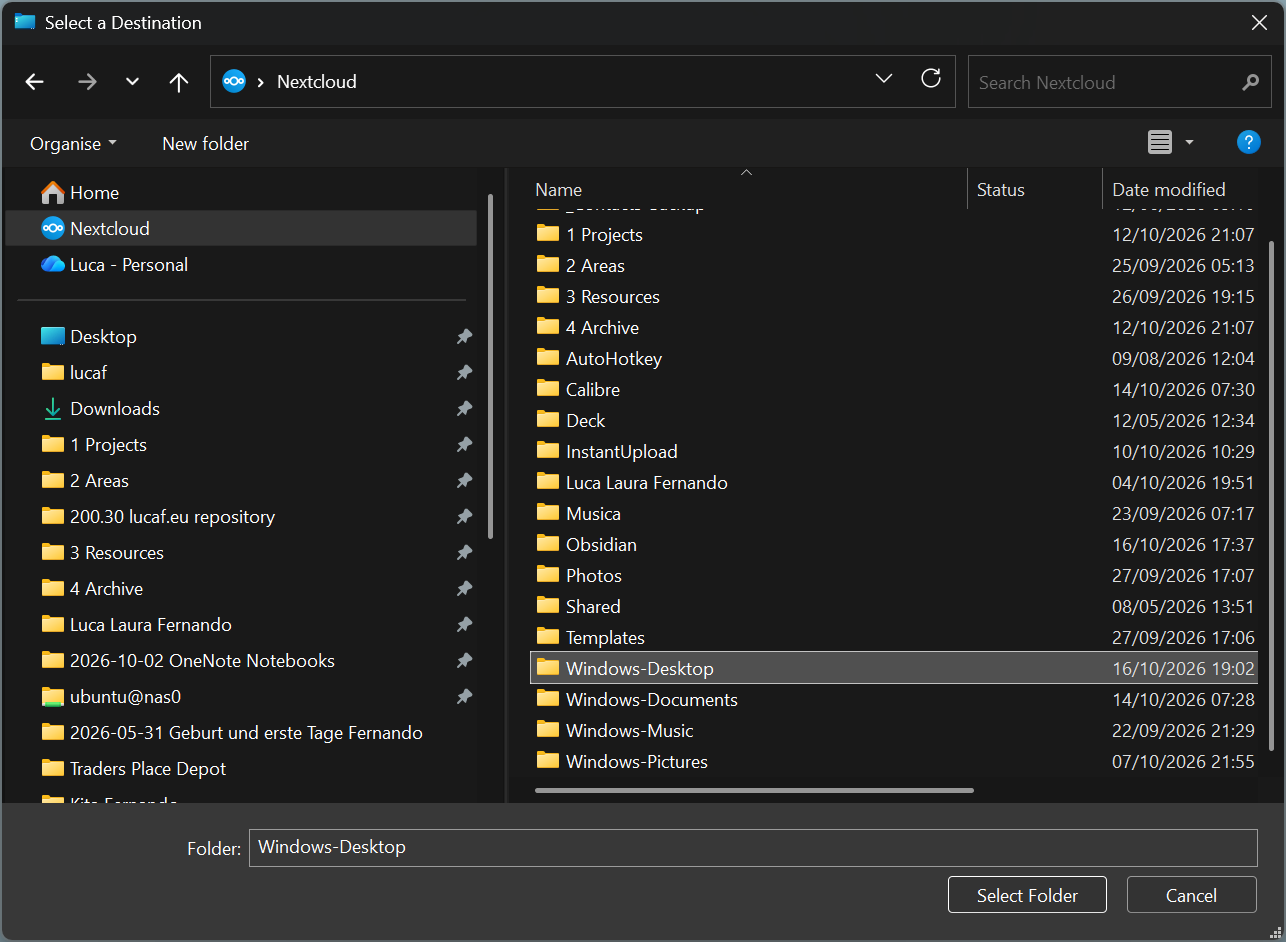
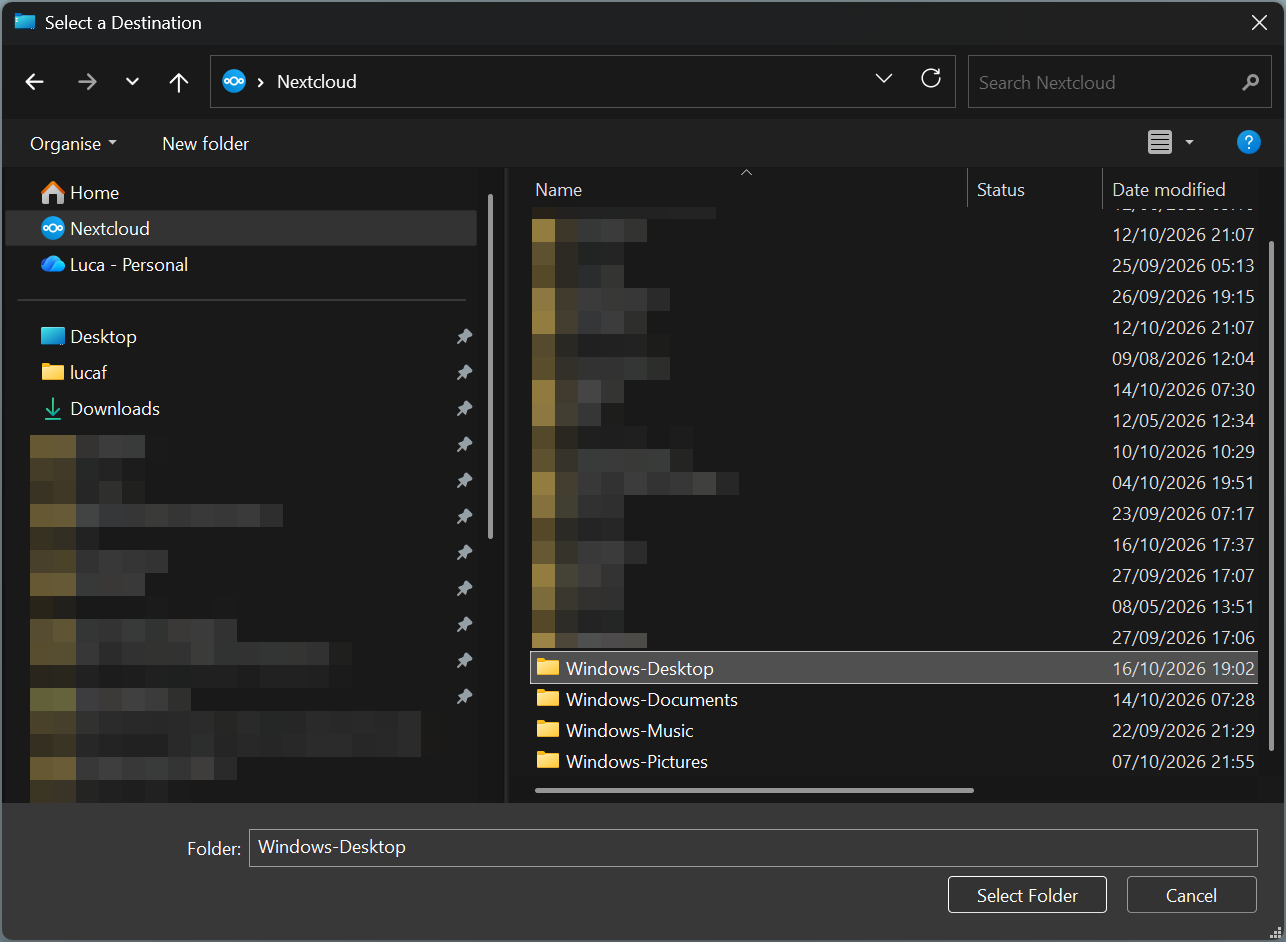
Draft 'Synchronisation special folders'

Changed region(s): [[0.0, 0.4618, 0.3421, 0.862], [0.4044, 0.2155, 0.5599, 0.7081]]

diff --git a/_drafts/libraries-nextcloud.md b/_drafts/libraries-nextcloud.md
@@ -5,10 +5,9 @@ mastodon:
 ---
 
 There are [special folders](https://learn.microsoft.com/en-us/dotnet/api/system.environment.specialfolder) which [can be synchronised with OneDrive](https://support.microsoft.com/en-gb/onedrive/back-up-your-folders-with-onedrive) together with the main OneDrive folder: documents, pictures, desktop, music, videos.
+Here is how I migrated the synchronisation of this folders to Nextcloud, but the same approach should work for any cloud service.
 
-I am no longer using OneDrive, but wanted to keep synchronising these folders.
-
-Go to OneDrive's settings, then *Manage backup*, and deactivate the toggle for all folders.
+Go to OneDrive's settings, *Manage backup*, and deactivate the toggle for all folders.
 Click *Stop backup and choose where to keep files* > *Only on my PC* > *Continue*.
 {:refdef: style="text-align: center;"}
 ![](/assets/2026/special-folders-nextcloud/onedrive-settings-1.png)
@@ -17,19 +16,25 @@ Click *Stop backup and choose where to keep files* > *Only on my PC* > *Continue
 {: refdef}
 
 The special folders should now be in your user profile folder.
-You can paste `%USERPROFILE%` in Windows Explorer's address bar to open it directly.
+You can open it by entering `%USERPROFILE%` in the address bar of Windows Explorer.
 
-For each special folders, open the properties, *Location*, then click *Move*.
+For each special folder, open the properties, *Location*, then click *Move*.
 The new directory does not need to keep the same name.
-I use the `Windows-` prefix to distinguish these folders from the ones created by me.
+I use the `Windows-` prefix to distinguish special folders from the ones created by me.
 
+{:refdef: style="text-align: center;"}
 ![](/assets/2026/special-folders-nextcloud/folder-properties-1.png)
 ![](/assets/2026/special-folders-nextcloud/folder-properties-2.png)
+{: refdef}
 
 Click on *Apply* and confirm twice.
 
+{:refdef: style="text-align: center;"}
 ![](/assets/2026/special-folders-nextcloud/folder-properties-3.png)
 ![](/assets/2026/special-folders-nextcloud/folder-properties-4.png)
+{: refdef}
 
-
-I am using a self-hosted [Nextcloud](https://nextcloud.com/) instance, but the same approach should work for any cloud service.
+After the move, the special folder should be visible at the new location.
+{:refdef: style="text-align: center;"}
+![](/assets/2026/special-folders-nextcloud/folder-properties-5.png)
+{: refdef}
